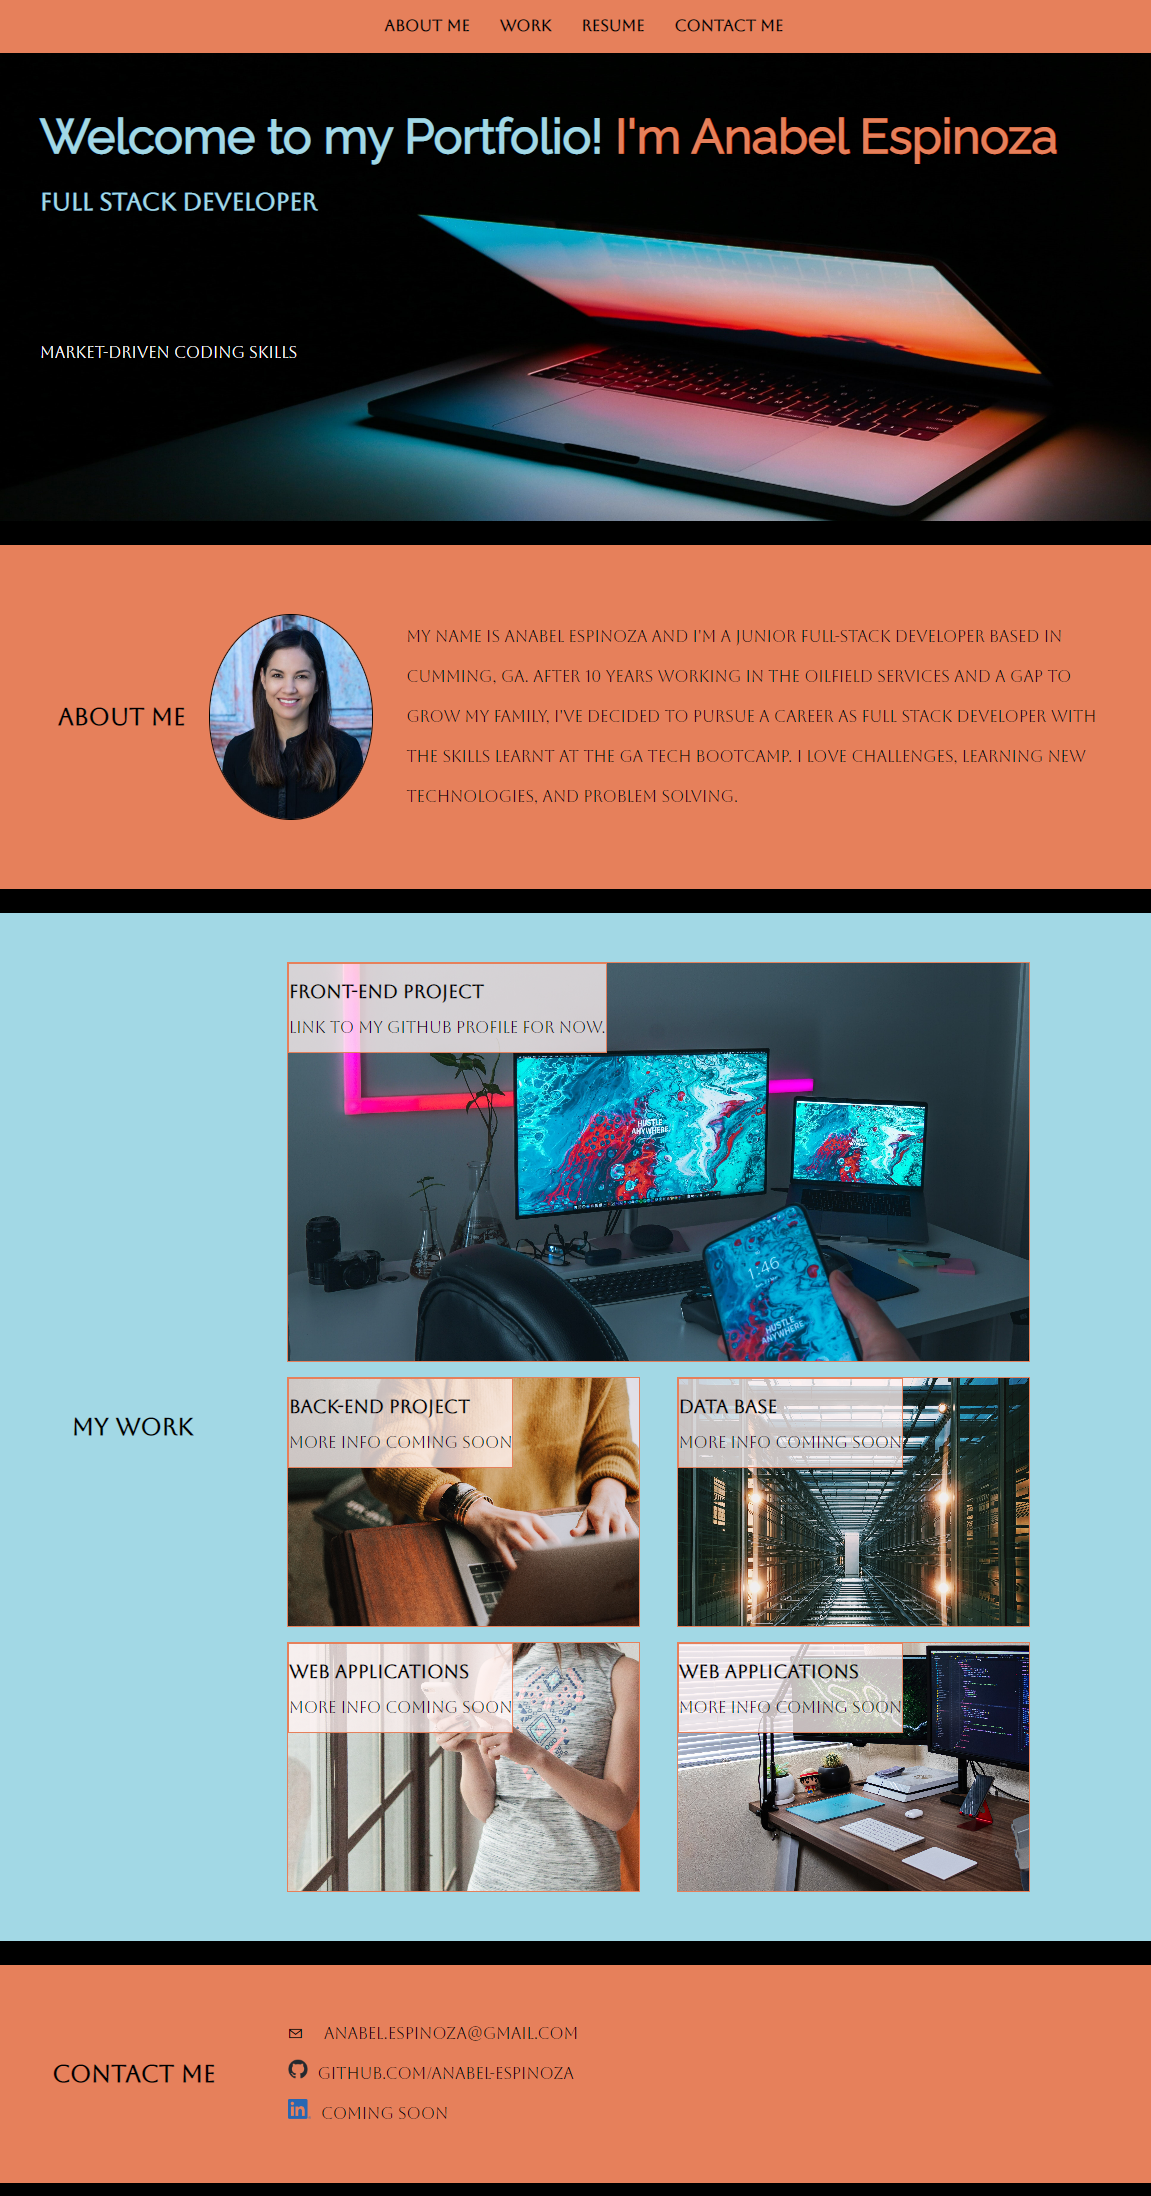
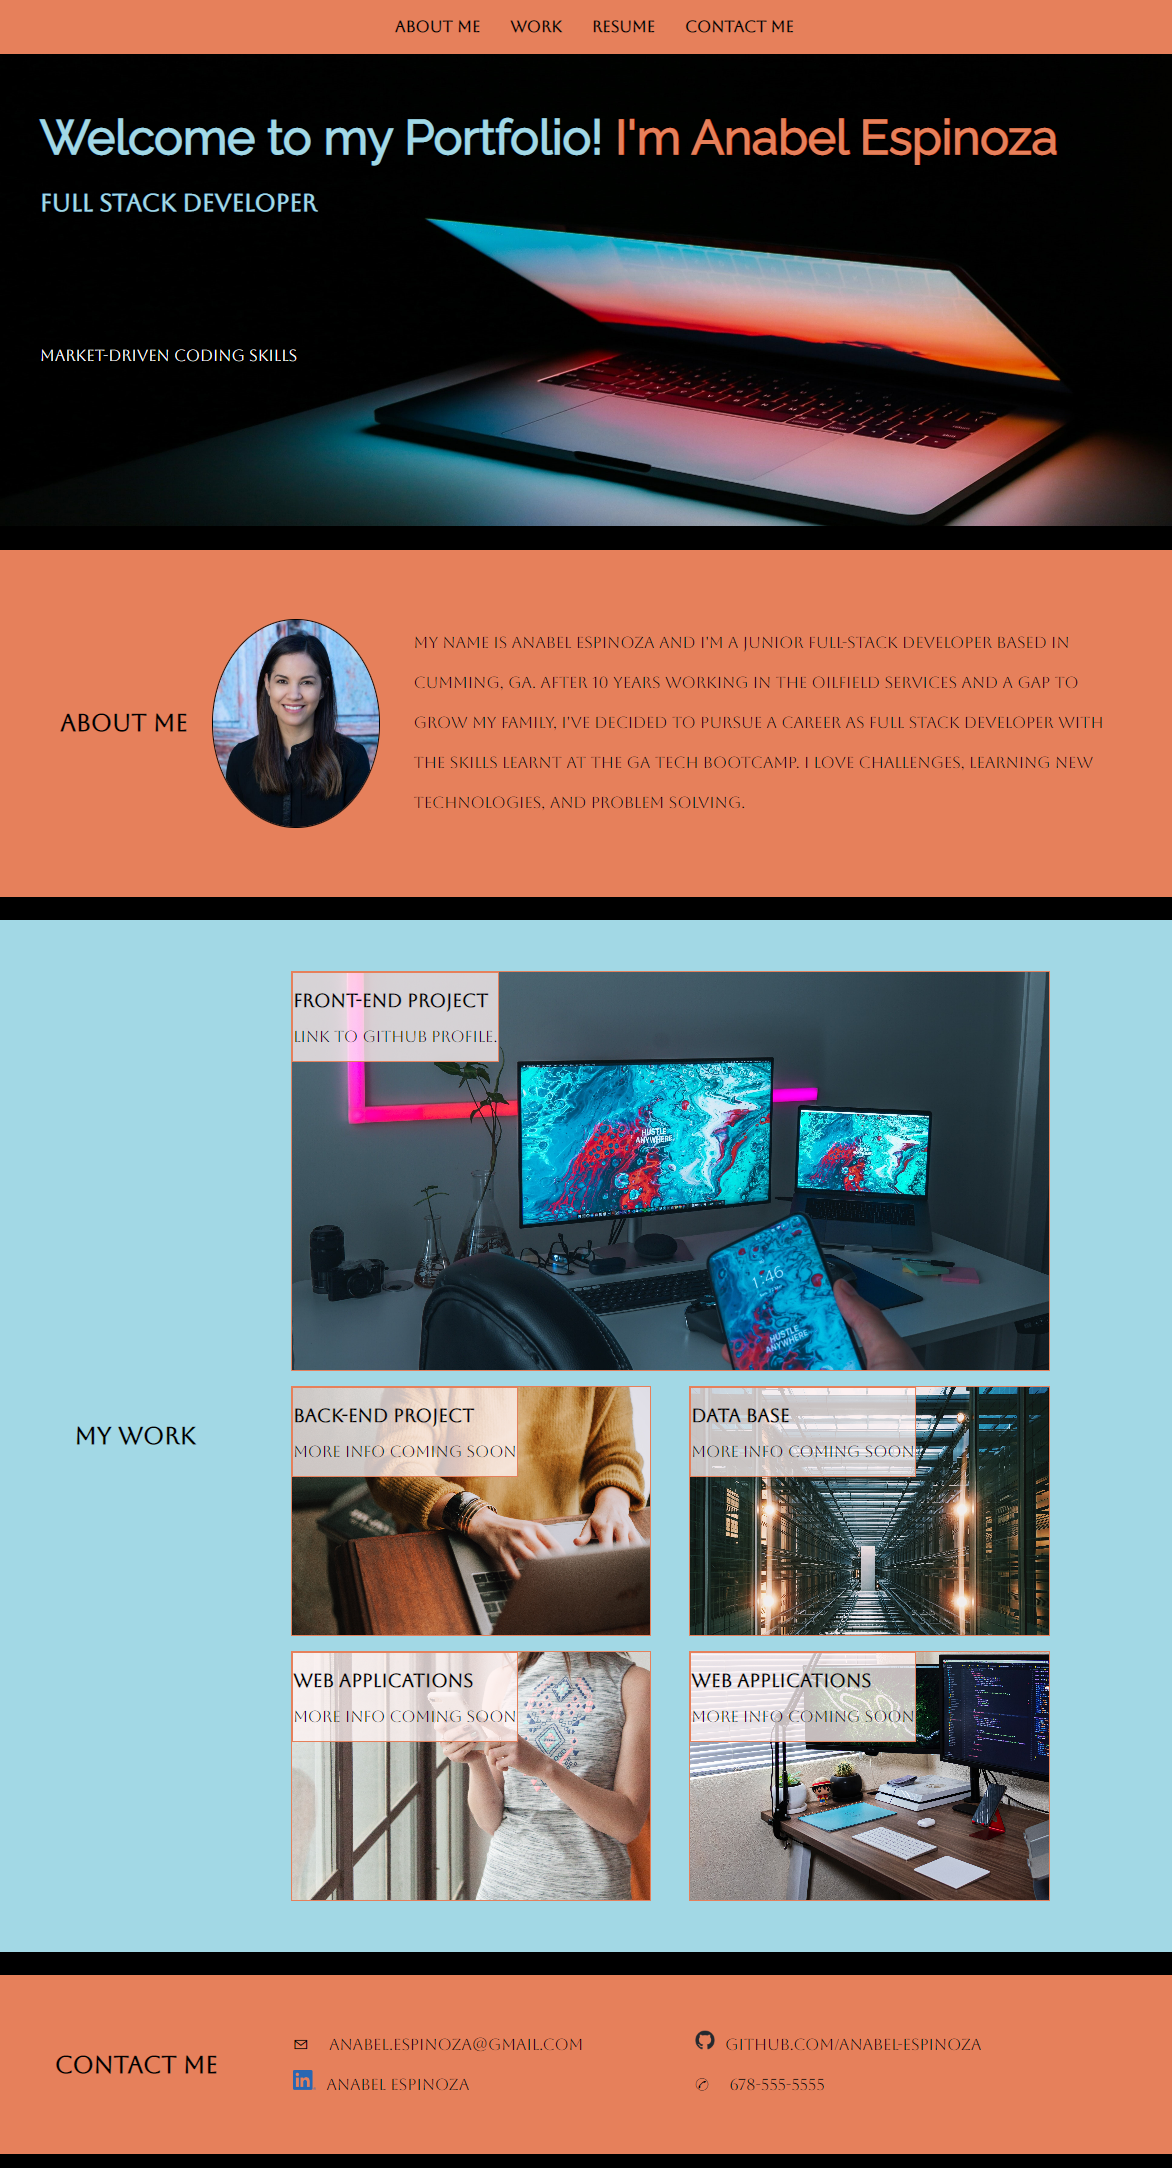
Added phone number in Contact Info, updated README screenshot

Changed region(s): [[0.0, 0.0, 1.0, 0.9889], [0.0608, 0.649, 0.1825, 0.6799]]

diff --git a/assets/css/style.css b/assets/css/style.css
@@ -46,7 +46,7 @@ nav {
     min-height: 3em;
     justify-content: center;
     gap:30px;
-    padding: 3%;
+    padding: 2%;
     width:100%;
     font-family: Aboreto;
     font-weight: bolder;
@@ -92,7 +92,7 @@ nav {
     flex:1;
     padding: 10% 0;
     color:white;
-    font: 3rem;
+    font: 4rem;
 }
 
 /* Section headers */
@@ -151,14 +151,16 @@ nav {
 
 .workcard{
     flex: 1;
+    flex-basis: 40%;
     margin: 1% 0;
     border: var(--orange) thin solid;
     background-size: cover;
-    min-width:300px;
+    min-width:350px;
     height:250px;
     color:black;
 }
 
+/* Text inside the workcards */
 .projects {
     background: rgba(255, 243, 243, 0.767);
     width: fit-content;
@@ -196,6 +198,7 @@ nav {
     transform:scale(1.05);
 }
 
+/* Contact Me Footer */
 .ContactMe {
     display: flex;
     flex-wrap:wrap;
@@ -203,6 +206,7 @@ nav {
     padding: 0 3%;
     margin: 2% 0;
     background-color: var(--orange);
+    margin: 2% 0;
 }
 
 .contactinfo {
@@ -210,6 +214,12 @@ nav {
     color:black;
     line-height: 2.5rem;
     padding: 3% 5%;
+    display:flex;
+    flex-wrap: wrap;
+}
+
+.info {
+    flex: 1 1 50%;
 }
 
 .contactinfo img{
@@ -217,6 +227,7 @@ nav {
     margin-right:10px;
 }
 
+/* Responsive Media Queries  */
 @media screen and (max-width: 1097px) {
     .hero{
         padding: 20px;
@@ -225,10 +236,13 @@ nav {
         font-size: 60%;
         background-image: url(../images/Mini-hero.jpg);
     }
+    
+    .contactinfo {
+        flex-direction: column;
+    }
   }
 
 @media screen and (max-width: 768px) {
-    nav,
     .cards,
     .AboutMe,
     .Work,
@@ -244,8 +258,18 @@ nav {
         padding: 0;
     }
 
-    .cards{
-        flex-grow: 1 0 90%;
-        margin: 2% 0;
+    .cards {
+        margin: 2% 2%;
+        align-items: center;
+    }
+
+    .front-end {
+        min-height: 150px;
+        flex: 1 1 100%;
+    }
+
+    nav {
+        font-size:75%;
+        flex-wrap: wrap;
     }
   }

diff --git a/index.html b/index.html
@@ -51,7 +51,7 @@
                     <div class="projects"> <!-- For now, Front-End project links to my github -->
                         <a href="https://github.com/Anabel-Espinoza">
                             <h3>Front-End Project</h3>
-                            <p>Link to my GitHub profile for now.</p>
+                            <p>Link to GitHub profile.</p>
                         </a>
                     </div>
                 </div>
@@ -87,10 +87,11 @@
     <footer class="ContactMe" id="ContactMe">
         <h2 class="headers">Contact Me</h2>
         <ul class="contactinfo">
-            <li>&#9993 &emsp;<a href="mailto: anabel.espinoza@gmail.com">anabel.espinoza@gmail.com</a></li>
-            <li><img src="./assets/images/github-mark.png" alt="github logo"><a
+            <li class="info">&#9993 &emsp;<a href="mailto: anabel.espinoza@gmail.com">anabel.espinoza@gmail.com</a></li>
+            <li class="info"><img src="./assets/images/github-mark.png" alt="github logo"><a
                     href="https://github.com/Anabel-Espinoza">github.com/Anabel-Espinoza</a></li>
-            <li><img src="./assets/images/LI-In-Bug.png" alt="linkedin logo"><a>Coming soon</a></li>
+            <li class= "info"><img src="./assets/images/LI-In-Bug.png" alt="linkedin logo"><a href="https://www.linkedin.com/in/anabel-espinoza-95b4b5264/">Anabel Espinoza</a></li>
+            <li class="info">&#9990 &emsp;<a href="tel:123-456-7890">678-555-5555</a></li>
         </ul>
     </footer>
 

diff --git a/README.md b/README.md
@@ -12,9 +12,9 @@ N/A
 ## Usage
 
 The site is responsive for different screens and devices. It consists of the following parts:
-- Navigation bar with the links to the sections: About Me, My Work, Contact Information, and Resume.
-- My Work section uses placeholder images and titles that will be updated once the developer has real applications to showcase. The biggest image corresponds to the most important app and for now, it just links to the GitHub profile. 
-- Contact Me section has a link to send email to the developer and a link to her GitHub profile. Linkedin profile is not available, but the link will be updated once it's created. Resume file has not been completed, so the link in the navigation bar just displays a document stating it will be updated soon.
+- Navigation bar with the links to the sections: About Me, My Work, Contact Information, and  link to the Resume file.
+- My Work section uses placeholder images and titles that will be updated once the developer has real applications to show. The biggest image corresponds to the most important app and for now, it just links to the GitHub profile. 
+- Contact Me section has a link email to the developer, to her GitHub profile, phone number, and LinkedIn profile.
 
 **Website link: (https://anabel-espinoza.github.io/AEspinoza-Portfolio/)**
 
